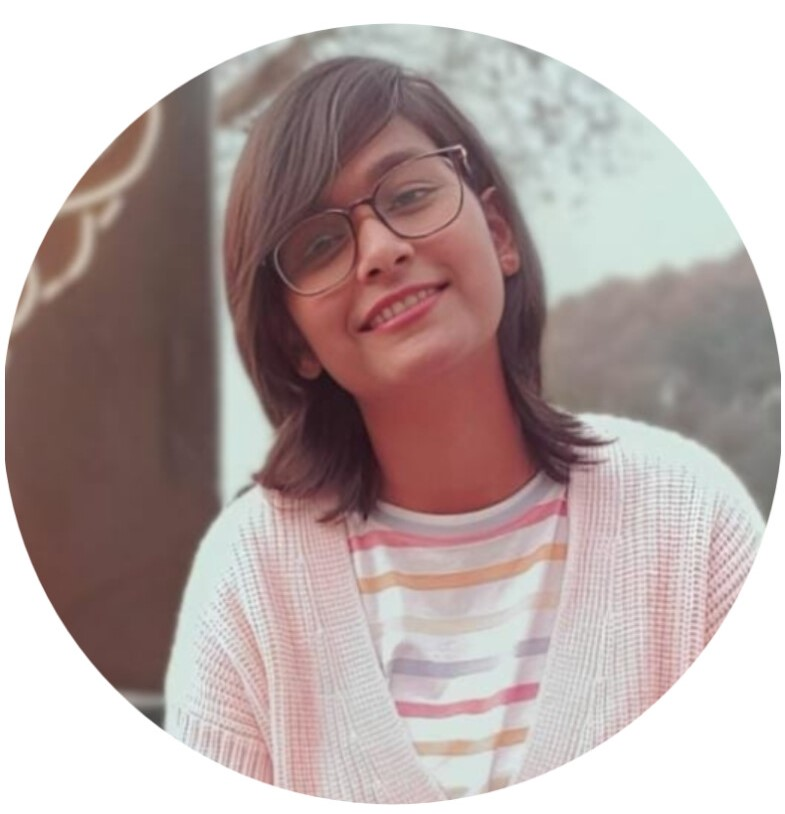
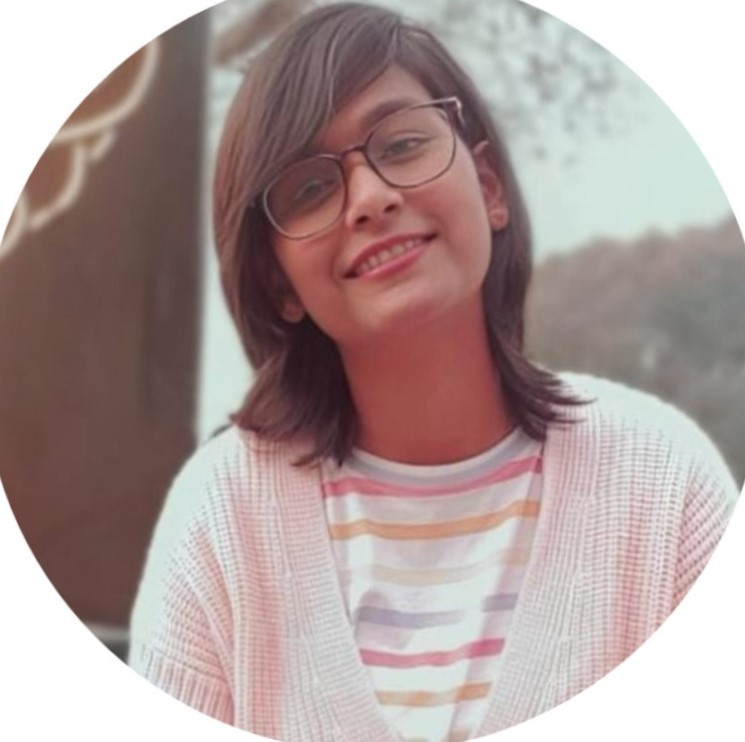
animation on scroll

diff --git a/index.html b/index.html
@@ -6,6 +6,7 @@
     <title>Damini Rai</title>
     <link rel="stylesheet" href="style.css">
     <link rel="stylesheet" href="https://cdnjs.cloudflare.com/ajax/libs/font-awesome/5.15.3/css/all.min.css"/>
+    <link rel="stylesheet" href="https://cdnjs.cloudflare.com/ajax/libs/aos/2.3.4/aos.css" />
     <script src="https://code.jquery.com/jquery-3.5.1.min.js"></script>
     <script src="https://cdnjs.cloudflare.com/ajax/libs/typed.js/2.0.11/typed.min.js"></script>
     <script src="https://cdnjs.cloudflare.com/ajax/libs/waypoints/4.0.1/jquery.waypoints.min.js"></script>
@@ -36,7 +37,8 @@
 
     <section class="home bubble" id="home">
         <div class="max-width">
-            <div class="home-content">
+
+            <div class="home-content" data-aos="fade-left">
                 <div class="text-1">Heya! My name is</div>
                 <div class="text-2">Damini Rai</div>
                 <div class="text-3">And I'm a <span class="typing"></span></div>
@@ -64,12 +66,12 @@
 
     <section class="about" id="about" style="background-color: #111;">
         <div class="max-width">
-            <h2 class="title">About me</h2>
+            <h2 class="title" data-aos="fade-left">About me</h2>
             <div class="about-content">
                 <div class="column left">
-                    <img src="images/dami1.jpg" alt="damini">
+                    <img src="images/dami.jpg" alt="damini">
                 </div>
-                <div class="column right">
+                <div class="column right" data-aos="fade-right" >
                     <div class="text">Hello again!👋</div>
                     <p style="color: aliceblue;">I'm a [Web Developer] who loves creating applications.
                     Currently doing stuffs on my own, have a look at my
@@ -79,7 +81,7 @@
                     </p>
                       <br/>
 
-                    <div class="tab-titles">
+                    <div class="tab-titles" data-aos="fade-left">
                       <p class="tab-links active-link" onclick="opentab('skills')">Skills</p>
                       <p class="tab-links" onclick="opentab('experience')">Experience</p>
                       <p class="tab-links" onclick="opentab('education')">Education</p>
@@ -120,10 +122,10 @@
         </div>
       </section>
 
-    <section class="client" id="clients" style="background-color: #111;">
-        <h2 class="title">My Tech Stack</h2>
+    <section class="client" id="clients" style="background-color: #111;" >
+        <h2 class="title" data-aos="zoom-in">My Tech Stack</h2>
       <div class="row">
-        <div class="client__logos">
+        <div class="client__logos" data-aos="fade-right" >
           <img src="./images/htmlicon.png" class="client__logo" alt="html" />
           <img src="./images/cssicon.png" class="client__logo" alt="css" />
           <img src="./images/jsicon.png" class="client__logo" alt="js" />
@@ -139,10 +141,10 @@
       </div>
     </section>
 
-    <section class="services" id="services">
+    <section class="services" id="services" >
         <div class="max-width">
-            <h2 class="title">My services</h2>
-            <div class="serv-content">
+            <h2 class="title" data-aos="zoom-in-up">My services</h2>
+            <div class="serv-content" data-aos="fade-right" >
                 <div class="card">
                     <div class="box">
                         <i class="fas fa-terminal"></i>
@@ -165,7 +167,7 @@
                     </div>
                 </div>
                 </div>
-                <div class="centered-box">
+                <div class="centered-box" data-aos="fade-left" >
                   <p style="font-size: small; margin-right:auto; font-weight: 500;">Start a Project!</p>
                   <p style="font-size: small; margin-right:auto; color:crimson; font-weight: 500;">Interested in working together? We should queue up a time to chat. I'll buy the coffee.</p>
                   <p><a href="#contact">
@@ -185,11 +187,11 @@
  
 
 
-      <section class="project" id="project">
+      <section class="project" id="project" >
         <div class="max-width">
-            <h2 class="title">My Work</h2>
+            <h2 class="title" data-aos="zoom-in-up">My Work</h2>
             <div class="project-content">
-      <div class="project-card">
+      <div class="project-card" data-aos="zoom-in-down">
         <img src="./images/tourly.png" alt="tourly">
         <h3 style="color: aliceblue; margin-bottom: 20px;">Tourly</h3>
         <p> Discover new horizons and create unforgettable memories with our expertly crafted travel packages.</p>
@@ -203,7 +205,7 @@
           </button>
         </a>      </div>
   
-      <div class="project-card">
+      <div class="project-card" data-aos="zoom-in-down">
         <img src="./images/musify.png" alt="musify">
         <h3 style="color: aliceblue; margin-bottom: 20px;">Musify</h3>
         <p>Elevate your auditory experience with my sleek music player web app.</p>
@@ -217,7 +219,7 @@
           </button>
         </a>      </div>
   
-      <div class="project-card">
+      <div class="project-card" data-aos="zoom-in-up">
         <img src="./images/learning.png" alt="e-learning">
         <h3 style="color: aliceblue; margin-bottom: 20px;">E-larning Web App</h3>
         <p>Explore a world of learning with our user-friendly e-learning web app. Easy, engaging, and tailored just for you.</p>
@@ -231,7 +233,7 @@
           </button>
         </a>      </div>
 
-        <div class="project-card">
+        <div class="project-card" data-aos="zoom-in-down">
           <img src="./images/taskmg.png" alt="task manager">
           <h3 style="color: aliceblue; margin-bottom: 20px;">Real time task management app</h3>
           <p>Effortlessly manage tasks in real-time with our task manager web app. Stay organized and in control, 
@@ -246,7 +248,7 @@
             </button>
           </a>      </div>
 
-          <div class="project-card">
+          <div class="project-card" data-aos="zoom-in-up">
             <img src="./images/expense-tracker.png" alt="Expense tracker">
             <h3 style="color: aliceblue; margin-bottom: 20px;">Expense Tracker</h3>
             <p>Take charge of your finances with our user-friendly expense tracker web app."</p>
@@ -260,7 +262,7 @@
               </button>
             </a>      </div>
 
-            <div class="project-card">
+            <div class="project-card" data-aos="zoom-in-down">
               <img src="./images/portf.png" alt="Portfolio">
               <h3 style="color: aliceblue; margin-bottom: 20px;">Portfolio</h3>
               <p>Explore my free, user-friendly portfolio website template.</p>
@@ -292,10 +294,10 @@
   
 
     
-    <section class="blogs" id="blogs">
+    <section class="blogs" id="blogs" >
         <div class="max-width">
-            <h2 class="title">My Blogs</h2>
-            <div class="carousel owl-carousel">
+            <h2 class="title" data-aos="zoom-in-down">My Blogs</h2>
+            <div class="carousel owl-carousel" data-aos="zoom-in-up">
                 <a href="https://medium.com/@raidamini2010/the-unprecedented-growth-of-artificial-intelligence-in-todays-world-3d5c986359f6"
                 target="_blank"
                 class="text">
@@ -360,10 +362,10 @@
         </div>
     </section>
 
-    <section class="contact" id="contact" style="background-color: #111;">
+    <section class="contact" id="contact" style="background-color: #111;" >
         <div class="max-width">
-            <h2 class="title">Contact me</h2>
-            <div class="contact-content">
+            <h2 class="title" data-aos="zoom-in">Contact me</h2>
+            <div class="contact-content" data-aos="zoom-in-up" >
                 <div class="column left">
                     <div class="text">Get in Touch</div>
                     <div class="icons">
@@ -425,8 +427,8 @@
     </section>
 
     <section class="social" id="social" style="background-color: #111;">
-      <h2 class="title">My Socials</h2>
-      <div class="social-menu">
+      <h2 class="title" data-aos="zoom-in">My Socials</h2>
+      <div class="social-menu" data-aos="zoom-in-down">
         <ul>
           <li><a href="https://github.com/Damini5891" target="_blank"><i class="fab fa-github"></i></a></li>
           <li><a href="https://www.instagram.com/the_miniii_/" target="_blank"><i class="fab fa-instagram"></i></a></li>
@@ -436,7 +438,10 @@
         </ul>
     </div>
     </section>
-    
+    <script src="https://cdnjs.cloudflare.com/ajax/libs/aos/2.3.4/aos.js"></script>
+    <script>
+      AOS.init();
+    </script>  
     <script src="script.js"></script>
 </body>
 </html>

diff --git a/style.css b/style.css
@@ -24,6 +24,8 @@ html{
     background: #555;
 }
 
+
+
 section{
     padding: 100px 0;
 }
@@ -249,7 +251,13 @@ section .title::after{
     color: crimson;
 }
 
-  
+.headimg{
+    height: 550px;
+    width: 400px;
+    object-fit:cover;
+    margin-left: 0;
+    border-radius: 72% 28% 73% 27% / 21% 71% 29% 79%  ;
+}  
 
 .about .title::after{
     content: "who i am";
@@ -263,7 +271,6 @@ section .title::after{
     width: 400px;
     object-fit:contain;
     border-radius: 50% ;
-    border: crimson;
 }
 .about .about-content .right{
     width: 55%;
